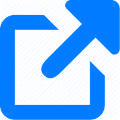
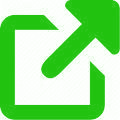
fixed tho pesky images, but they still look bad

diff --git a/Arcade Radar/ArcadeMachineProfileViewController.swift b/Arcade Radar/ArcadeMachineProfileViewController.swift
@@ -33,6 +33,8 @@ class ArcadeMachineProfileViewController: ViewController {
         super.viewDidLoad()
         findIfReported()
         self.view.backgroundColor = UIColor.grayColor()
+        self.noCountLabel.textColor = Colors.colorWithHexString("EF5350")
+        self.yesCountLabel.textColor = Colors.colorWithHexString("008000")
         self.arcadeMachineNameLabel.text = self.arcadeMachine.name
         self.lastSeenOnLabel.text = "Last Seen on \(self.arcadeMachine.lastSeen)"
         self.addressButton.setTitle(self.arcadeMachine.arcadeName, forState: .Normal)

diff --git a/Arcade Radar/AppDelegate.swift b/Arcade Radar/AppDelegate.swift
@@ -43,7 +43,7 @@ class AppDelegate: UIResponder, UIApplicationDelegate {
                 UIButton.appearance().tintColor = hackerGreen
                
             }
-            UIImageView.appearance().tintColor = hackerGreen
+            //UIImageView.appearance().tintColor = hackerGreen
             UITableViewCell.appearance().backgroundColor = UIColor.darkGrayColor()
             UITextField.appearance().backgroundColor = UIColor.blackColor()
             UITextField.appearance().borderStyle = .Line
